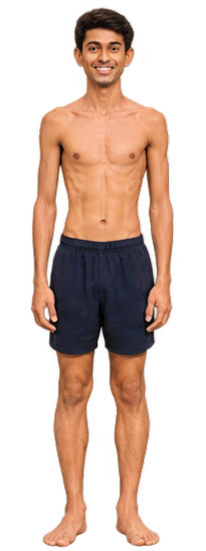
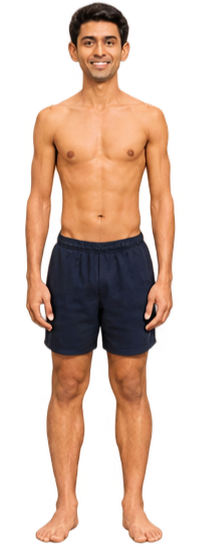
app ui updated

Changed region(s): [[0.12, 0.0, 0.9, 0.9963], [0.45, 0.2491, 0.57, 0.3736]]

diff --git a/src/components/Helper/Data/popupForm/popupFormData.jsx b/src/components/Helper/Data/popupForm/popupFormData.jsx
@@ -93,18 +93,14 @@ export const BODY_IMAGES = {
   ),
 };
 
-/* min inclusive, max exclusive */
+/* min inclusive, max exclusive. Edit labels and ranges here only. */
 export const BODY_TYPES = [
-  { stage: 1,  label: "Underweight",       min: 0,    max: 16,       accent: "#0891B2", blurb: "You're on the lighter end. A structured plan can help you build strength and energy." },
-  { stage: 2,  label: "Lean",              min: 16,   max: 18.5,     accent: "#0E9AA7", blurb: "You have a lean frame. The right training and nutrition can help you build strength and definition." },
-  { stage: 3,  label: "Athletic",          min: 18.5, max: 20,       accent: "#0D9488", blurb: "You're in a light, active range. A good plan can help you keep building performance and tone." },
-  { stage: 4,  label: "Muscular",          min: 20,   max: 21.5,     accent: "#0F9D6E", blurb: "You're in a strong, well-balanced range. A smart plan can help you maintain and sharpen it." },
-  { stage: 5,  label: "Normal",            min: 21.5, max: 23,       accent: "#16A34A", blurb: "You're in a healthy range. Consistent habits will help you stay there and feel your best." },
-  { stage: 6,  label: "Soft",              min: 23,   max: 25,       accent: "#65A30D", blurb: "You're at the upper end of a healthy range. Small, steady changes can help you tone up." },
-  { stage: 7,  label: "Overweight",        min: 25,   max: 27.5,     accent: "#D97706", blurb: "You're carrying some extra weight. A tailored plan can help you lean out and feel stronger." },
-  { stage: 8,  label: "Obese - Class I",   min: 27.5, max: 30,       accent: "#EA580C", blurb: "A tailored plan can help you bring your weight down steadily and sustainably." },
-  { stage: 9,  label: "Obese - Class II",  min: 30,   max: 35,       accent: "#DC2626", blurb: "A guided, consistent plan can help you make real progress, one step at a time." },
-  { stage: 10, label: "Obese - Class III", min: 35,   max: Infinity, accent: "#B91C1C", blurb: "You deserve proper support. A guided plan, ideally alongside your doctor, can help you move forward safely." },
+  { stage: 1, label: "Lean",              min: 0,  max: 22,       accent: "#0D9488", blurb: "You have a lean, light frame. The right training and nutrition can help you build strength, energy and definition." },
+  { stage: 2, label: "Normal",            min: 22, max: 25,       accent: "#16A34A", blurb: "You're in a healthy range. Consistent habits will help you stay there and feel your best." },
+  { stage: 3, label: "Overweight",        min: 25, max: 30,       accent: "#D97706", blurb: "You're carrying some extra weight. A tailored plan can help you lean out and feel stronger." },
+  { stage: 4, label: "Obese - Class I",   min: 30, max: 35,       accent: "#EA580C", blurb: "A tailored plan can help you bring your weight down steadily and sustainably." },
+  { stage: 5, label: "Obese - Class II",  min: 35, max: 40,       accent: "#DC2626", blurb: "A guided, consistent plan can help you make real progress, one step at a time." },
+  { stage: 6, label: "Obese - Class III", min: 40, max: Infinity, accent: "#B91C1C", blurb: "You deserve proper support. A guided plan, ideally alongside your doctor, can help you move forward safely." },
 ];
 
 export const BMI_DISCLAIMER =
@@ -116,4 +112,3 @@ export const CM_PER_IN = 2.54;
 export const fieldShell =
   "flex items-center gap-2 rounded-2xl border border-stone-200 bg-white shadow-sm transition focus-within:border-teal-500 focus-within:ring-2 focus-within:ring-teal-100";
 
-  console.log("BODY_IMAGES", BODY_IMAGES);

diff --git a/src/components/PopupForm/stepResult.jsx b/src/components/PopupForm/stepResult.jsx
@@ -13,14 +13,32 @@ export default function StepResult({ bmi, bodyType, gender }) {
 
   return (
     <div className="flex w-full flex-col gap-3">
-      {/* Illustration + score, side by side */}
-      <div className="grid grid-cols-[auto_1fr] items-center gap-4">
-        <div className="flex h-40 w-28 items-center justify-center sm:h-48 sm:w-36">
+      {/* Score on the left, larger illustration on the right */}
+      <div className="grid grid-cols-[1fr_auto] items-center gap-3 sm:gap-6">
+        <div className="min-w-0 text-left">
+          <p className="text-xs font-semibold text-stone-400">Your stage</p>
+          <p
+            className="text-5xl font-extrabold leading-none sm:text-6xl"
+            style={{ color: bodyType.accent }}
+          >
+            {bodyType.stage}
+            <span className="text-xl text-stone-300 sm:text-3xl">/6</span>
+          </p>
+          <h3 className="mt-2 break-words text-lg font-bold leading-tight text-stone-800 sm:text-2xl">
+            {bodyType.label}
+          </h3>
+          <p className="mt-1 text-sm text-stone-500 sm:text-base">
+            BMI <strong className="text-stone-700">{bmi.toFixed(1)}</strong>
+          </p>
+        </div>
+
+        {/* Height also capped by viewport so short phones never scroll */}
+        <div className="flex h-[min(14rem,30vh)] w-36 items-center justify-center sm:h-72 sm:w-52">
           {src && !failed ? (
             <img
               src={src}
               alt={`${gender} body illustration, stage ${bodyType.stage}: ${bodyType.label}`}
-              className="max-h-full max-w-full object-contain"
+              className="h-full w-full object-contain"
               onError={() => setFailed(true)}
             />
           ) : (
@@ -28,23 +46,6 @@ export default function StepResult({ bmi, bodyType, gender }) {
               Illustration coming soon
             </div>
           )}
-        </div>
-
-        <div className="min-w-0 text-left">
-          <p className="text-xs font-semibold text-stone-400">Your stage</p>
-          <p
-            className="text-4xl font-extrabold leading-none sm:text-5xl"
-            style={{ color: bodyType.accent }}
-          >
-            {bodyType.stage}
-            <span className="text-xl text-stone-300 sm:text-2xl">/10</span>
-          </p>
-          <h3 className="mt-1 text-lg font-bold leading-tight text-stone-800 sm:text-xl">
-            {bodyType.label}
-          </h3>
-          <p className="mt-0.5 text-sm text-stone-500">
-            BMI <strong className="text-stone-700">{bmi.toFixed(1)}</strong>
-          </p>
         </div>
       </div>
 

diff --git a/src/components/Helper/Data/popupForm/bmi.test.js b/src/components/Helper/Data/popupForm/bmi.test.js
@@ -4,7 +4,7 @@ import { calculateBMI, getBodyType } from "./popupFormValidations";
 const cases = [
   [15.99, 1], [16, 2], [18.49, 2], [18.5, 3], [19.99, 3], [20, 4], [21.49, 4], [21.5, 5],
   [22.99, 5], [23, 6], [24.99, 6], [25, 7], [27.49, 7], [27.5, 8], [29.99, 8],
-  [30, 9], [34.99, 9], [35, 10], [60, 10],
+  [30, 8], [34.99, 8], [35, 9], [60, 10],
 ];
 
 describe("getBodyType", () => {
